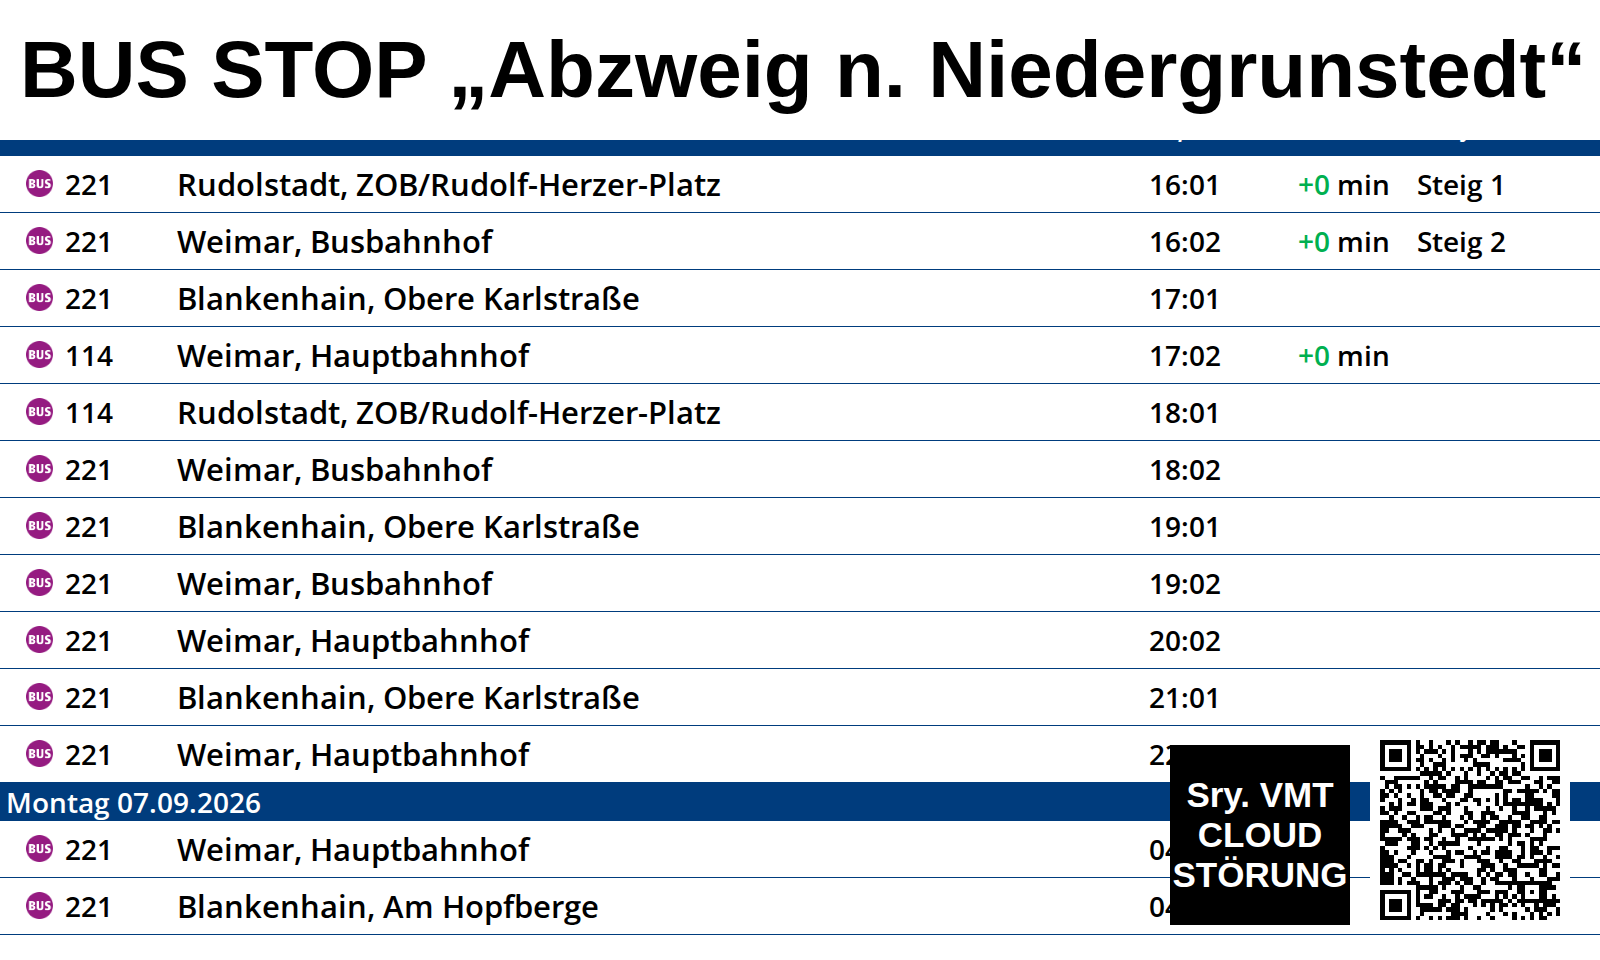
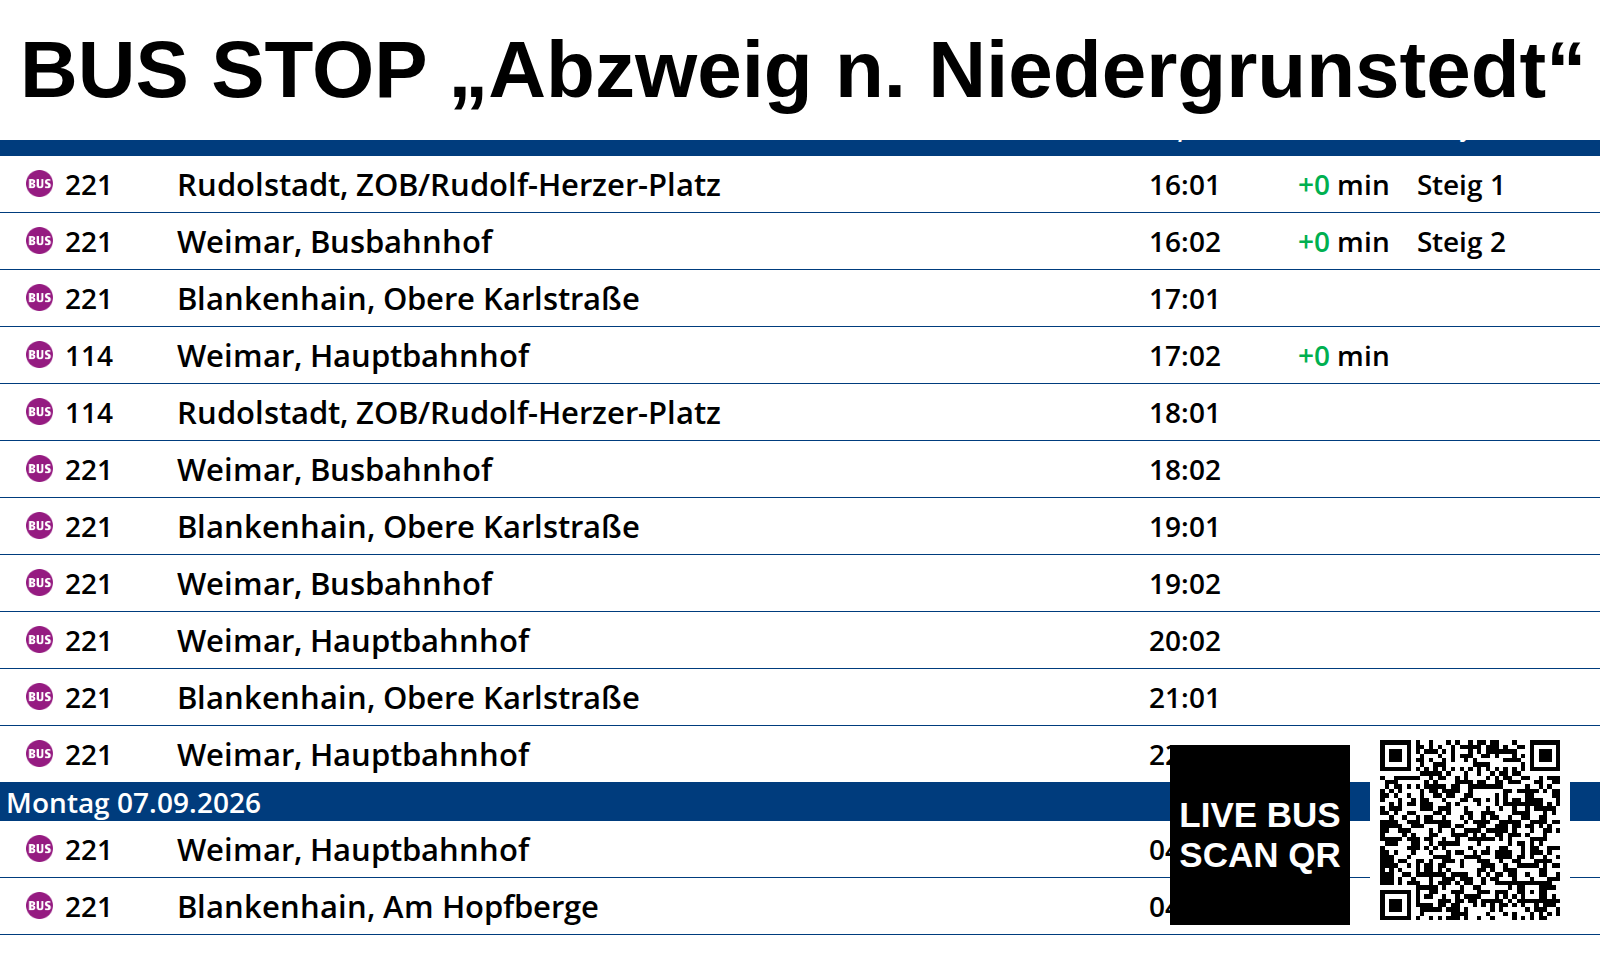
deploy: 60379a316e0e8c3a7bac5510a9cf36d1d169bb0d

Changed region(s): [[0.7188, 0.8125, 0.8438, 0.9375]]

diff --git a/capture.js b/capture.js
@@ -60,8 +60,8 @@ const LIVE_SCAN_BOX = {
   bottom: 35,
 
   // Text
-  line1: 'Sry. VMT CLOUD',
-  line2: 'STÖRUNG'
+  line1: 'LIVE BUS',
+  line2: 'SCAN QR'
 };
 
 
